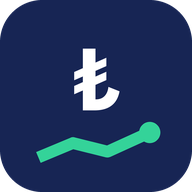
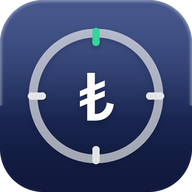
kur-pusulasi: yeni ikon (v36) -- pusula halkasi + TL
Kullanici onayladi. Eski ikon duz zeminli genel bir cizgi grafigiydi;
uygulamanin ADI zaten 'Pusula' ama ikonda pusula YOKTU.

Yeni: pusula halkasi + dort yon centigi (kuzey yesil) + ortada TL.

Olculdu: olculer 512/192/512 dogru · kose alfasi (512-192 seffaf,
maskeli dolu) · isaretin %0,00'i Android'in guvenli dairesi disinda ·
48 pikselde isaret-zemin farki 107,3.

Damga v36: ikonlar onbellege giriyor, yukseltilmezse eski ikon kalir.
Kaynak proje git altinda DEGIL; eski ikonlar .ikon-yedek/ klasorune
kopyalandi.

diff --git a/kur-pusulasi/index.html b/kur-pusulasi/index.html
@@ -31,7 +31,7 @@
 <meta name="application-name" content="Kur Pusulası" />
 <!-- iPhone'da uygulama açılırken görünen ekran (Safari manifest'i kullanmaz) -->
 <link rel="apple-touch-startup-image" href="acilis-ekrani.png" />
-<link rel="stylesheet" href="stil.css?v=35" />
+<link rel="stylesheet" href="stil.css?v=36" />
 </head>
 <body>
 
@@ -399,8 +399,8 @@
     </div>
 </footer>
 
-<script src="cekirdek.js?v=35"></script>
-<script src="arayuz.js?v=35"></script>
+<script src="cekirdek.js?v=36"></script>
+<script src="arayuz.js?v=36"></script>
 <script type="application/ld+json">
 {
   "@context": "https://schema.org",

diff --git a/kur-pusulasi/sw.js b/kur-pusulasi/sw.js
@@ -2,13 +2,13 @@
 // Uygulamayı çevrimdışı da açar: dosyaları önbelleğe alır.
 // Yeni sürüm çıkarınca SURUM'u artır ki herkese taze dosyalar gitsin.
 
-const SURUM = "kur-pusulasi-v35";
+const SURUM = "kur-pusulasi-v36";
 const DOSYALAR = [
     "./",
     "./index.html",
-    "./stil.css?v=35",
-    "./cekirdek.js?v=35",
-    "./arayuz.js?v=35",
+    "./stil.css?v=36",
+    "./cekirdek.js?v=36",
+    "./arayuz.js?v=36",
     "./manifest.json",
     "./ikon-192.png",
     "./ikon-512.png",
